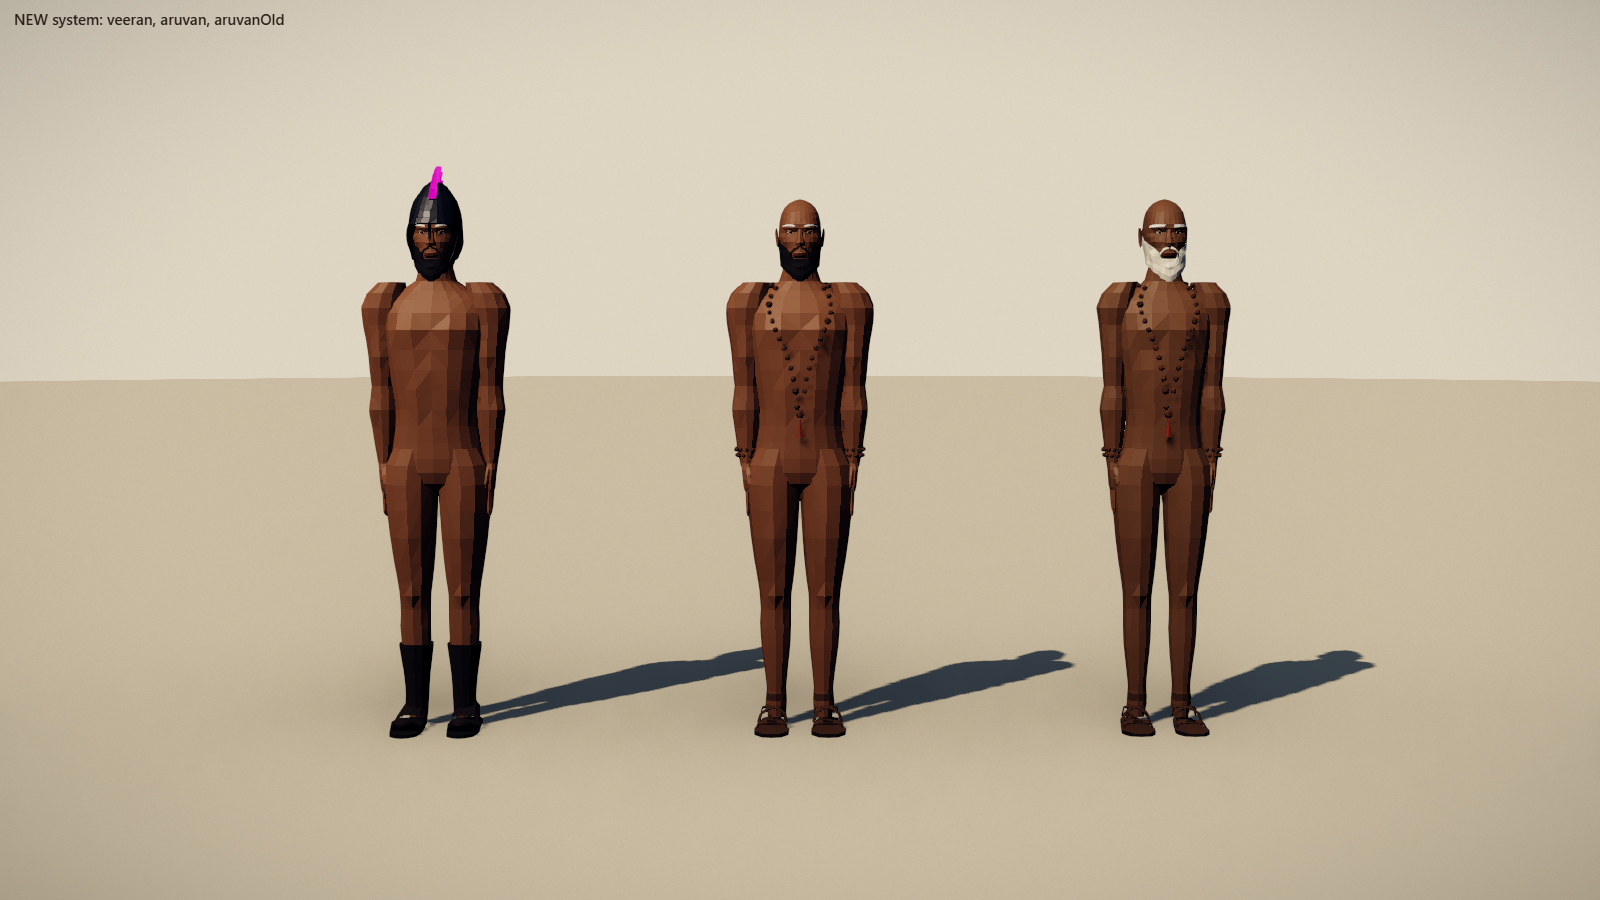
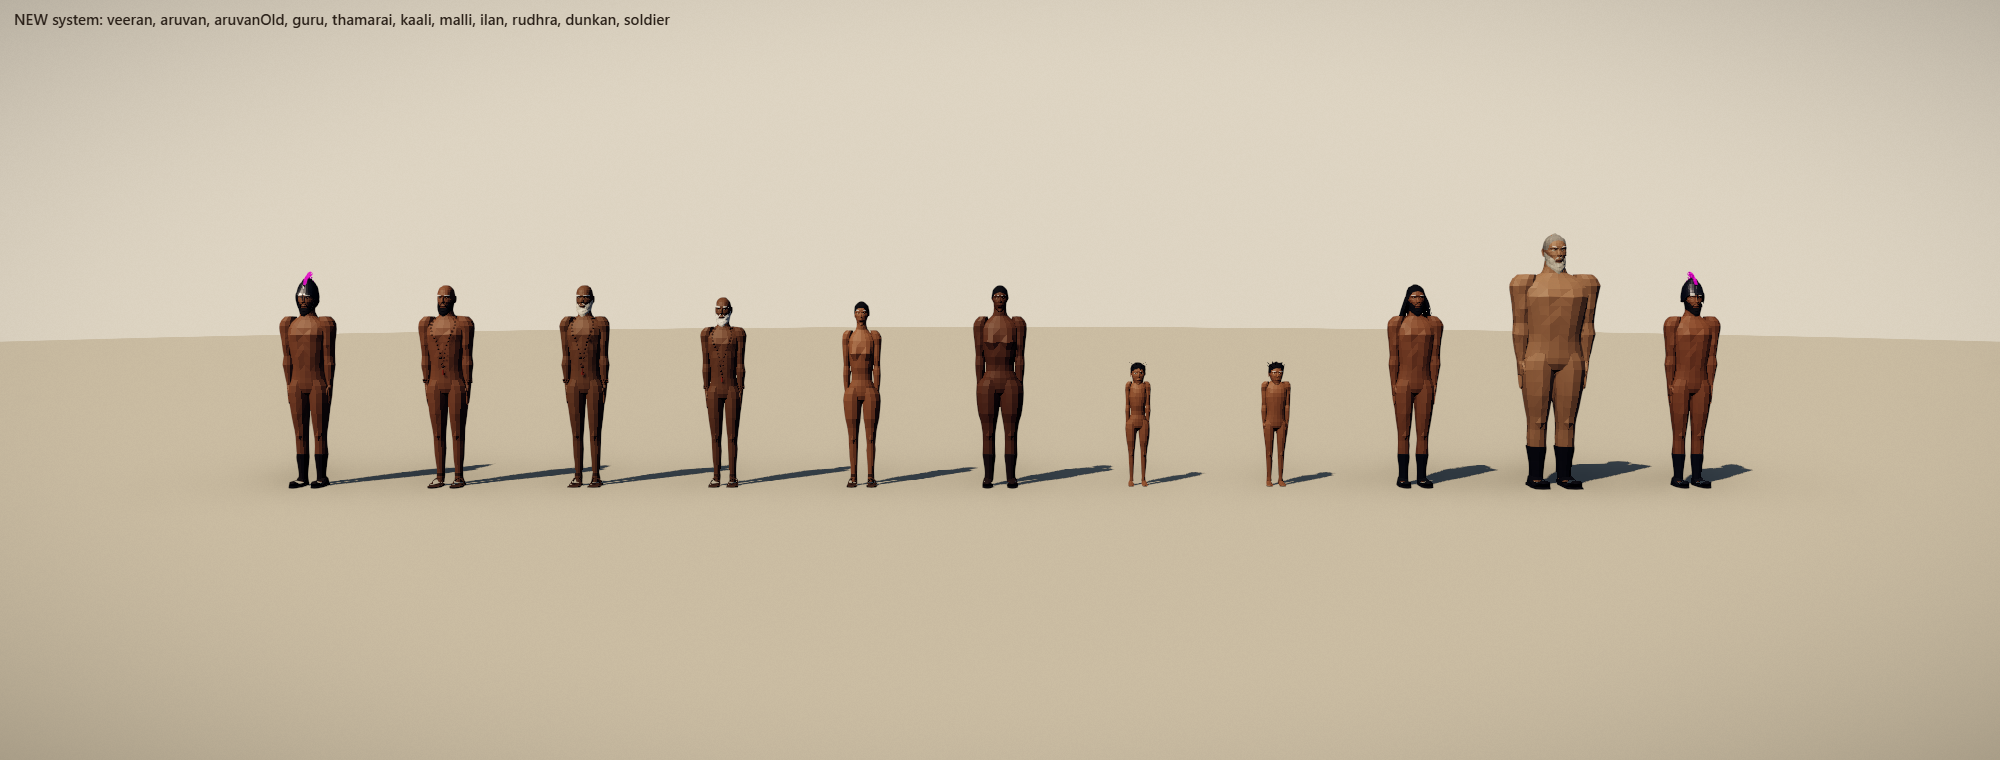
Preview the whole cast with the new character system (unclothed bodies; garments unfinished)

Changed region(s): [[0.0, 0.1816, 1.0, 0.8171], [0.0, 0.0, 0.3438, 0.0303], [0.625, 0.4842, 0.6562, 0.6355]]

diff --git a/tests/new-characters.js b/tests/new-characters.js
@@ -11,6 +11,14 @@ export const NEW_PRESETS = {
   veeran: { skin: 0x8a5a3c, beard: { color: 0x1a120c }, hair: { color: 0x15100c, style: 'short' }, skirt: 0x6b0f0f, helmet: { color: 0x3a3a40, crest: 0x8b1a1a }, boots: 0x2a1c14, muscle: 0.9 },
   aruvan: { skin: 0x8a5a3c, beard: { color: 0x1a120c }, robe: 0xd9822b, sandals: true, beads: true, muscle: 0.85 },
   aruvanOld: { skin: 0x7d5538, beard: { color: 0xe8e4dc, long: true }, robe: 0xc97a2e, sandals: true, beads: true, old: true, bulk: 0.9 },
+  guru: { scale: 0.94, skin: 0x7a5236, beard: { color: 0xf2f2f2, long: true }, robe: 0xe8d9b5, sandals: true, beads: true, old: true, bulk: 0.86 },
+  thamarai: { scale: 0.92, fem: true, skin: 0x9a6644, hair: { color: 0x120c08, style: 'braid' }, skirt: 0x7a2f4f, sandals: true, bulk: 0.92 },
+  kaali: { fem: true, skin: 0x6e452c, hair: { color: 0x120c08, style: 'ponytail' }, boots: 0x3a2418, bulk: 1.18, muscle: 0.7 },
+  malli: { fem: true, child: true, skin: 0x9a6644, hair: { color: 0x120c08, style: 'messy' } },
+  ilan: { child: true, skin: 0x9a6644, hair: { color: 0x120c08, style: 'spiky' } },
+  rudhra: { skin: 0x8a5a3c, beard: { color: 0x0a0a0a }, hair: { color: 0x0a0a0a, style: 'long' }, boots: 0x1a1a1a, muscle: 0.9 },
+  dunkan: { scale: 1.25, skin: 0xa0785a, beard: { color: 0xbab6ad, long: true }, hair: { color: 0x95908a, style: 'grey' }, boots: 0x1a1414, bulk: 1.38, muscle: 0.8 },
+  soldier: { skin: 0x8d5a3b, beard: { color: 0x1a120c }, helmet: { color: 0x45454e, crest: 0x8b1a1a }, boots: 0x1f1f24 },
 }
 
 export function buildNewCharacter(id, detail = 2) {
@@ -25,10 +33,11 @@ export function buildNewCharacter(id, detail = 2) {
   const H = buildHead(ctx) || ctx.headShape
   if (o.beard) buildBeard(ctx, H, o.beard)
   if (o.hair) buildHair(ctx, H, o.hair)
-  if (o.helmet) buildHelmet(ctx, H, o.helmet)
+  if (o.helmet) buildHelmet(ctx, H, { trim: 0x8a8a90, ...o.helmet })
   if (o.robe || o.skirt) skirtShell(ctx, { color: o.robe ?? o.skirt })
   if (o.sandals) sandals(ctx); else if (o.boots) boots(ctx, { color: o.boots }); else buildFeet(ctx)
   if (o.beads) { wristBeads(ctx); mala(ctx) }
   S.build(root, skeleton, m => { const k = mat(m).clone(); return k })
+  root.scale.setScalar(o.child ? 0.62 : o.scale ?? 1)
   return root
 }

diff --git a/tests/studio.js b/tests/studio.js
@@ -53,13 +53,13 @@ function orbit(target, az, el, dist) {
 const chars = []
 function setup() {
   if (kind === 'newchar') {
-    const ids = (q.get('ids') || 'veeran,aruvan,aruvanOld').split(',')
+    const ids = (q.get('ids') || 'veeran,aruvan,aruvanOld,guru,thamarai,kaali,malli,ilan,rudhra,dunkan,soldier').split(',')
     const w = (ids.length - 1) * 1.3
     import('/tests/new-characters.js').then(({ buildNewCharacter }) => {
       ids.forEach((id, i) => { const r = buildNewCharacter(id); r.position.x = -w / 2 + i * 1.3; r.rotation.y = Number(q.get('ry') || 0); scene.add(r) })
       label.textContent = 'NEW system: ' + ids.join(', ')
     }).catch(e => { label.textContent = 'error: ' + e.message; console.error(e) })
-    camera.fov = 26; orbit(new THREE.Vector3(0, 1.0, 0), Number(q.get('az') || 0), 4, Number(q.get('dist') || 7))
+    camera.fov = 26; orbit(new THREE.Vector3(0, 1.0, 0), Number(q.get('az') || 0), 4, Number(q.get('dist') || Math.max(7, w * 2.3)))
   } else if (kind === 'char') {
     const ids = (q.get('ids') || 'aruvan').split(',')
     const views = (q.get('views') || 'front,left,back,right').split(',')
